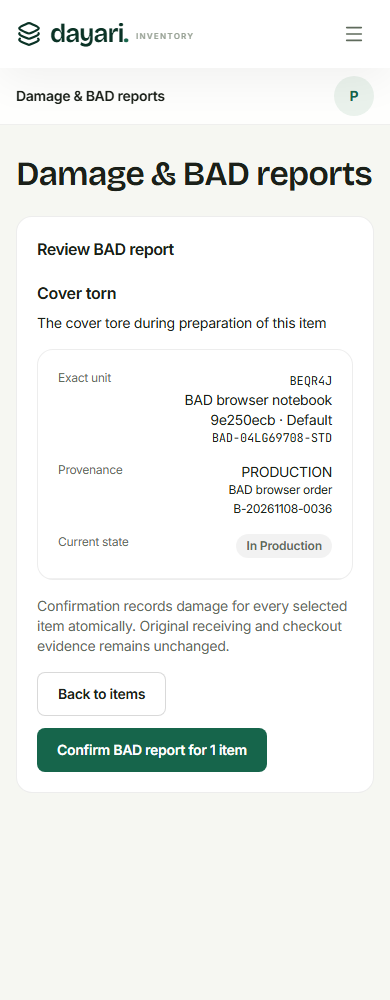
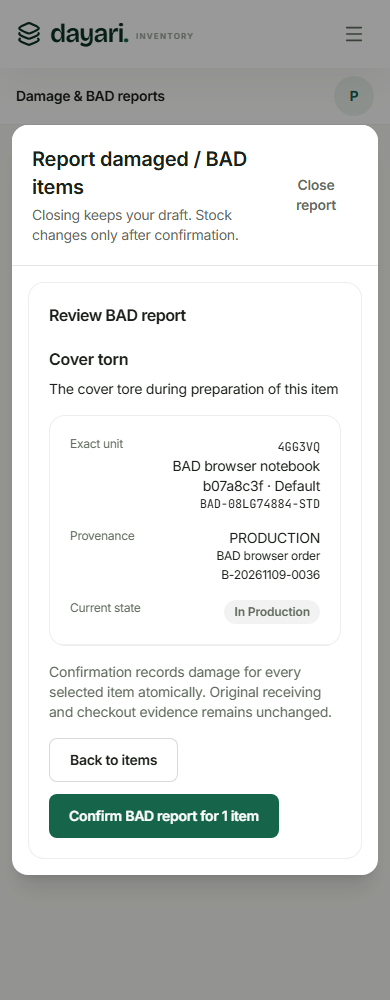
feat(ux): group products and streamline checkout and damage reporting

diff --git a/apps/web/components/production-workspace.tsx b/apps/web/components/production-workspace.tsx
@@ -1,15 +1,35 @@
 'use client';
 import {useState} from 'react';
-import type {AvailabilityPage} from '@dayari/contracts';
+import type {AvailabilityPage,AvailableProduct} from '@dayari/contracts';
 import {useApiRead} from '../lib/api';
 import {Button} from './ui/button';
-import {Badge,EmptyState,LoadingState,PageHeader,ReadError,SearchField} from './ui/workspace';
+import {EmptyState,LoadingState,PageHeader,ReadError,SearchField} from './ui/workspace';
+import {Code,DataTable,Pager} from './ui';
+
+function ProductLots({productId,q,onCode}:{productId:string;q:string;onCode:(code:string)=>void}){
+ const [page,setPage]=useState(1);
+ const stock=useApiRead<AvailabilityPage>(`availability?${new URLSearchParams({productId,q,page:String(page)})}`);
+ return <div className="border-t border-black/5 p-4">{stock.loading?<LoadingState/>:stock.error?<ReadError message={stock.error} onRetry={stock.refresh}/>:stock.data?<>
+ <DataTable label="Product variants and usable lots" rows={stock.data.lots} rowKey={lot=>lot.lotId} mobileStack emptyMessage="No usable lots match." columns={[
+ {key:'variant',label:'Variant',cell:lot=>lot.variantName},
+ {key:'sku',label:'SKU',cell:lot=><Code>{lot.fullSku}</Code>},
+ {key:'lot',label:'Lot / batch',cell:lot=><><Code>{lot.lotCode??'Not assigned'}</Code><span className="block text-xs text-grey-2">{lot.publicBatchCode}</span></>},
+ {key:'quantity',label:'Usable',cell:lot=>lot.usable},
+ {key:'lookup',label:'Details',cell:lot=>lot.lotCode?<Button variant="outline" size="small" onClick={()=>onCode(lot.lotCode!)}>Look up {lot.lotCode}</Button>:<span className="text-xs">Scan its saved QR label</span>}
+ ]}/><Pager page={page} pageCount={Math.ceil(stock.data.total/stock.data.pageSize)} total={stock.data.total} onChange={setPage}/></>:null}</div>;
+}
+function ProductRow({product,q,onCode}:{product:AvailableProduct;q:string;onCode:(code:string)=>void}){
+ const [open,setOpen]=useState(false);
+ return <section className="surface overflow-hidden"><button type="button" aria-expanded={open} onClick={()=>setOpen(!open)} className="flex w-full flex-wrap items-center justify-between gap-3 p-5 text-left hover:bg-surface-muted focus-visible:outline-2 focus-visible:outline-brand">
+ <span><span className="block font-semibold">{product.productName}</span>{product.productCode?<Code className="mt-1 block text-xs">{product.productCode}</Code>:null}</span>
+ <span className="text-sm text-grey-2">{product.variantCount} {product.variantCount===1?'variant':'variants'} · {product.lotCount} {product.lotCount===1?'lot':'lots'} <span className="ml-3 font-semibold text-brand">{open?'Hide details −':'View variants +'}</span></span>
+ </button>{open?<ProductLots productId={product.productId} q={q} onCode={onCode}/>:null}</section>;
+}
 export function ProductionWorkspace({onScan,onCode,onCheckout}:{onScan:()=>void;onCode:(code:string)=>void;onCheckout:()=>void}){
  const [q,setQ]=useState(''),[page,setPage]=useState(1);
- const stock=useApiRead<AvailabilityPage>(`availability?${new URLSearchParams({q,page:String(page)})}`);
- return <div className="page"><PageHeader eyebrow="Production · Identify with confidence" title="Production workspace" description="Find usable stock by product, variant, saved SKU, Lot Code or batch. Availability is read from accepted shop movements." actions={<div className="flex flex-wrap gap-2"><Button onClick={onCheckout}>Checkout items</Button><Button variant="secondary" onClick={onScan}>Scan a QR label</Button></div>}/>
- <section className="surface mb-5 p-4 text-sm leading-6 text-stone-600">Lookup never reserves or deducts stock. Open Production checkout to select individual units, review references and confirm once.</section>
- <div className="mb-5 grid items-end gap-3 sm:grid-cols-[minmax(0,1fr)_auto]"><div className="min-w-0 flex-1"><SearchField label="Search usable stock" value={q} onChange={value=>{setQ(value);setPage(1);}} placeholder="Product, variant, SKU, Lot Code or batch…"/></div><Button variant="outline" onClick={stock.refresh}>Refresh availability</Button></div>
- {stock.loading?<LoadingState/>:stock.error?<ReadError message={stock.error} onRetry={stock.refresh}/>:!stock.data?.lots.length?<EmptyState title="No usable stock matches">Try another product, variant or printed code. Use exact code/QR lookup for a known identity even when usable stock is unavailable.</EmptyState>:<><p className="mb-4 text-xs text-stone-500">{stock.data.total} matching usable lots · As of {new Date(stock.data.dataAsOf).toLocaleTimeString('en-GB',{timeZone:'Africa/Lagos'})} Lagos</p><div className="grid gap-4 md:grid-cols-2 xl:grid-cols-3">{stock.data.lots.map(lot=><section key={lot.lotId} className="surface min-w-0 p-5"><div className="flex flex-wrap justify-between gap-2"><span className="font-mono text-xs text-emerald-800">{lot.productCode??'Product code not assigned'}</span><Badge tone="usable">{lot.usable} usable</Badge></div><h2 className="mt-3 font-semibold">{lot.productName}</h2><p className="mt-1 text-sm text-stone-500">{lot.variantName}</p><p className="mt-3 break-all font-mono text-xs">{lot.fullSku}</p><p className="mt-2 text-xs text-stone-500">Batch {lot.publicBatchCode}</p><p className="mt-2 font-mono text-xs">Lot {lot.lotCode??'Code not assigned'}</p>{lot.lotCode?<Button className="mt-4" size="small" variant="outline" onClick={()=>onCode(lot.lotCode!)}>Look up {lot.lotCode}</Button>:<p className="mt-4 text-xs text-stone-500">Use its existing QR label for exact identification.</p>}</section>)}</div><div className="mt-5 flex flex-wrap items-center gap-3"><Button variant="outline" disabled={page===1} onClick={()=>setPage(page-1)}>Previous</Button><span className="text-sm">Page {page}</span><Button variant="outline" disabled={page*20>=stock.data.total} onClick={()=>setPage(page+1)}>Next</Button></div></>}
+ const stock=useApiRead<AvailabilityPage>(`availability?${new URLSearchParams({view:'products',q,page:String(page)})}`);
+ return <div className="page"><PageHeader title="Production workspace" description="" actions={<div className="flex flex-wrap gap-2"><Button onClick={onCheckout}>Checkout items</Button><Button variant="secondary" onClick={onScan}>Scan a QR label</Button></div>}/>
+ <div className="mb-5 grid items-end gap-3 sm:grid-cols-[minmax(0,1fr)_auto]"><SearchField label="Search usable stock" value={q} onChange={value=>{setQ(value);setPage(1);}} placeholder="Product, variant, SKU, Lot Code or batch…"/><Button variant="outline" onClick={stock.refresh}>Refresh availability</Button></div>
+ {stock.loading?<LoadingState/>:stock.error?<ReadError message={stock.error} onRetry={stock.refresh}/>:!stock.data?.products?.length?<EmptyState title="No usable stock matches">Try another product, variant or printed code.</EmptyState>:<><p className="mb-4 text-xs text-stone-500">{stock.data.total} matching products · As of {new Date(stock.data.dataAsOf).toLocaleTimeString('en-GB',{timeZone:'Africa/Lagos'})} Lagos</p><div className="space-y-3">{stock.data.products.map(product=><ProductRow key={`${q}:${page}:${product.productId}`} product={product} q={q} onCode={onCode}/>)}</div><Pager page={page} pageCount={Math.ceil(stock.data.total/stock.data.pageSize)} total={stock.data.total} onChange={setPage}/></>}
  </div>;
 }

diff --git a/apps/web/components/damage-workspace.tsx b/apps/web/components/damage-workspace.tsx
@@ -1,4 +1,5 @@
 'use client';
+import { ReportModal } from './ui/report-modal';
 import { useEffect, useRef, useState } from 'react';
 import { damageReportSchema, damageReviewSchema, type DamageCandidate, type DamageView, type UnitIdentityLookup } from '@dayari/contracts';
 import { api, useApiRead } from '../lib/api';
@@ -35,9 +36,14 @@ function DamageDetail({ id, review, onClose, onTrack }: { id: string; review: bo
   const result = useApiRead<DamageView>(`${review ? 'damage-reviews' : 'damage-reports'}/${id}`);
   return <DetailsDrawer title={review ? 'Damage review' : 'BAD report'} eyebrow="Damage evidence" closeLabel="Close damage details" onClose={onClose}>{result.loading ? <DetailSkeleton rows={4} /> : result.error ? <ErrorNotice message={result.error} onRetry={result.refresh} /> : result.data ? <Recorded value={result.data} onTrack={onTrack} /> : null}</DetailsDrawer>;
 }
+function ReportContainer({review,children,...props}: {review:boolean;children:React.ReactNode;open:boolean;busy:boolean;onClose:()=>void}) {
+  return review ? <>{children}</> : <ReportModal {...props}>{children}</ReportModal>;
+}
 function Workflow({ actorId, config, review }: { actorId: string; config: Config; review: boolean }) {
   const { saved, ready, busy, update, send, route } = useDamageDraft(actorId, config.originId, review, config.ownIssuedOnly);
   const presentation = useQrPresentation();
+  const [reportOpen,setReportOpen] = useState(false);
+  useEffect(() => { if(ready && !review && (saved.pending || saved.body.unitIds.length || saved.body.cause || saved.body.description)) setReportOpen(true); }, [ready,review]);
   const [input, setInput] = useState(''), [error, setError] = useState(''), [adding, setAdding] = useState(false), [camera, setCamera] = useState(false), [announcement, setAnnouncement] = useState('');
   const [confirming, setConfirming] = useState(false), [page, setPage] = useState(1), [historyPage, setHistoryPage] = useState(1), [tracking, setTracking] = useState(''), [detail, setDetail] = useState('');
   const [units, setUnits] = useState<DamageCandidate[]>([]), [previewError, setPreviewError] = useState(''), [previewBusy, setPreviewBusy] = useState(false), [revision, setRevision] = useState(0);
@@ -79,7 +85,8 @@ function Workflow({ actorId, config, review }: { actorId: string; config: Config
   const canConfirm = valid.success && !previewBusy && !previewError && units.length === saved.body.unitIds.length && units.every(unit => unit.eligible);
   return <div className="space-y-5">
     {showingSaved ? accepted.loading ? <DetailSkeleton rows={4} /> : accepted.error ? <ErrorNotice message={accepted.error} onRetry={accepted.refresh} /> : accepted.data ? <><Recorded value={accepted.data} onTrack={setTracking} />{canWrite ? <Button variant="secondary" onClick={() => change({ ...saved.body, unitIds: [] })}>Start another {review ? 'review' : 'BAD report'}</Button> : null}</> : null : null}
-    {canWrite && !showingSaved && ready ? <Panel title={confirming ? review ? 'Review disposition' : 'Review BAD report' : review ? 'Review damaged items' : 'Report an item as BAD'}><div className="space-y-4">
+    {canWrite && !showingSaved && ready && !review ? <Button onClick={()=>setReportOpen(true)}>Report damaged / BAD items</Button> : null}
+    {canWrite && !showingSaved && ready ? <ReportContainer review={review} open={reportOpen} busy={busy || adding} onClose={()=>{setCamera(false);setReportOpen(false);}}><Panel title={confirming ? review ? 'Review disposition' : 'Review BAD report' : review ? 'Review damaged items' : 'Report an item as BAD'}><div className="space-y-4">
       {error ? <ErrorNotice message={error} /> : null}{presentation.state === 'error' ? <ErrorNotice message={`Identification is available, but QR presentation evidence was not confirmed: ${presentation.error}`} onRetry={presentation.retry} /> : null}{saved.pending && !busy ? <WarningNotice>The response is unresolved. Retry this saved request with the same key.<Button disabled={busy} className="mt-2" onClick={() => void confirm()}>Retry saved damage command</Button></WarningNotice> : null}
       {!confirming ? <>
         <form ref={form} onSubmit={event => { event.preventDefault(); void add(); }} className="flex flex-wrap items-end gap-3"><div className="min-w-0 flex-1"><Field label="Scan individual QR or enter Unit Code">{id => <Input id={id} value={input} disabled={disabled} maxLength={200} placeholder="DYI:2 or six characters" onChange={event => setInput(event.target.value)} />}</Field></div><Button type="submit" disabled={disabled || !input.trim()}>{adding ? 'Checking…' : 'Add item'}</Button><Button variant="secondary" disabled={disabled} onClick={() => setCamera(value => !value)}>Use camera</Button></form>
@@ -96,7 +103,7 @@ function Workflow({ actorId, config, review }: { actorId: string; config: Config
       ]} /><Pager page={page} pageCount={Math.ceil(units.length / 12)} total={units.length} onChange={setPage} /></> : <EmptyState title="No items selected">Scan or enter an exact Unit Code.</EmptyState>}
       {review ? <p className="text-sm text-grey-2">Held and Reworked remain damaged. Discarded and Returned to vendor remove the selected items. <a className="inline-flex min-h-11 items-center font-semibold text-brand underline" href="#requests">Record a pending recovery request</a>; execution still requires future cloud authorization.</p> : <p className="text-sm text-grey-2">Confirmation records damage for every selected item atomically. Original receiving and checkout evidence remains unchanged.</p>}
       <div className="flex flex-wrap justify-between gap-3"><Button variant="secondary" disabled={disabled} onClick={() => { if (confirming) setConfirming(false); else if (window.confirm('Discard this damage draft? Saved inventory history will remain unchanged.')) change({ unitIds: [], cause: '', description: '', outcome: 'HELD', note: '' }); }}>{confirming ? 'Back to items' : 'Discard draft'}</Button><Button disabled={disabled || !canConfirm} onClick={() => { if (confirming) void confirm(); else { setConfirming(true); setPage(1); } }}>{busy ? 'Recording…' : confirming ? `Confirm ${review ? 'review' : 'BAD report'} for ${units.length} ${units.length === 1 ? 'item' : 'items'}` : 'Review selected items'}</Button></div>
-    </div></Panel> : null}
+    </div></Panel></ReportContainer> : null}
     {review && !config.canReview ? <p className="text-sm text-grey-2">Read-only disposition history. Only Inventory Managers confirm damage outcomes.</p> : null}
     {!confirming ? <Panel title={review ? 'Disposition history' : config.ownIssuedOnly ? 'Your BAD reports' : 'BAD report history'}><div className="space-y-4">{history.loading ? <DetailSkeleton rows={4} /> : history.error ? <ErrorNotice message={history.error} onRetry={history.refresh} /> : history.data ? <><DataTable label="Damage history" rows={history.data.rows} rowKey={row => row.id} mobileStack emptyMessage="No recorded damage commands." columns={[
       { key: 'record', label: 'Recorded', cell: row => <><span>{formatDateTime(row.recordedAt)}</span><span className="block text-xs">{row.actorName}</span></> },

diff --git a/tests/e2e/labels.spec.ts b/tests/e2e/labels.spec.ts
@@ -36,11 +36,11 @@ test('A4 printing without outcome reports, explicit reprint and Production read-
  const popup=page.waitForEvent('popup');await labels.getByRole('button',{name:'Print 5 sheets',exact:true}).click();const preview=await popup;await expect(labels.getByText('Report this print attempt',{exact:true})).toHaveCount(0);await expect(labels.getByRole('status').filter({hasText:'Print dialog requested'})).toBeVisible();await expect(labels.getByRole('button',{name:'Print 5 sheets',exact:true})).toBeEnabled();await preview.close();
  await expect(labels.getByLabel('Print outcome note',{exact:true})).toHaveCount(0);await expect(labels.getByRole('button',{name:'Report printed',exact:true})).toHaveCount(0);
  const retryRequest=page.waitForResponse(r=>r.url().endsWith(`/api/label-print-jobs/${job.id}/events`)&&r.request().method()==='POST');const retryPopup=page.waitForEvent('popup');await labels.getByRole('button',{name:'Print 5 sheets',exact:true}).click();const retryPrint=await retryPopup;expect((await retryRequest).status()).toBe(201);await expect(labels.getByRole('button',{name:'Print 5 sheets',exact:true})).toBeEnabled();await expect(labels.getByRole('status').filter({hasText:'Print dialog requested'})).toBeVisible();await retryPrint.close();await expect(labels.getByRole('alert')).toHaveCount(0);
- await labels.getByText('Explicit reprint',{exact:true}).click();const first=job.lines.find((line:any)=>line.purpose==='USABLE');await labels.getByRole('checkbox',{name:`${first.content.fullCode} · USABLE`,exact:true}).check();await labels.getByRole('spinbutton',{name:`${first.content.fullCode} USABLE reprint copies`,exact:true}).fill('501');await labels.getByLabel('Reprint reason',{exact:true}).fill('Printer jam spoiled the intended labels');await expect(labels.getByRole('button',{name:'Create explicit reprint',exact:true})).toBeEnabled();let discardWarning=false;page.once('dialog',async dialog=>{discardWarning=true;await dialog.dismiss();});await page.getByRole('button',{name:'QR lookup',exact:true}).click();expect(discardWarning).toBe(true);await expect(page).toHaveURL(/#receipts\//);await expect(labels.getByRole('spinbutton',{name:`${first.content.fullCode} USABLE reprint copies`,exact:true})).toHaveValue('501');await expect(labels.getByLabel('Reprint reason',{exact:true})).toHaveValue('Printer jam spoiled the intended labels');await labels.getByRole('button',{name:'Create explicit reprint',exact:true}).click();await expect(labels.getByRole('heading',{name:'Reprint manifest',exact:true})).toBeVisible();
+ await labels.getByText('Explicit reprint',{exact:true}).click();const first=job.lines.find((line:any)=>line.purpose==='USABLE');await labels.getByRole('checkbox',{name:`${first.content.fullCode} · USABLE`,exact:true}).check();await labels.getByRole('spinbutton',{name:`${first.content.fullCode} USABLE reprint copies`,exact:true}).fill('501');await labels.getByLabel('Reprint reason',{exact:true}).fill('Printer jam spoiled the intended labels');await expect(labels.getByRole('button',{name:'Create explicit reprint',exact:true})).toBeEnabled();let discardWarning=false;page.once('dialog',async dialog=>{discardWarning=true;await dialog.dismiss();});await page.getByRole('button',{name:'Production checkout',exact:true}).click();expect(discardWarning).toBe(true);await expect(page).toHaveURL(/#receipts\//);await expect(labels.getByRole('spinbutton',{name:`${first.content.fullCode} USABLE reprint copies`,exact:true})).toHaveValue('501');await expect(labels.getByLabel('Reprint reason',{exact:true})).toHaveValue('Printer jam spoiled the intended labels');await labels.getByRole('button',{name:'Create explicit reprint',exact:true}).click();await expect(labels.getByRole('heading',{name:'Reprint manifest',exact:true})).toBeVisible();
  await labels.getByLabel('PDF part',{exact:true}).fill('2');await labels.getByRole('button',{name:'Prepare PDF',exact:true}).click();await expect(labels.getByRole('status')).toContainText('1 labels on 1 A4 sheet(s)');
  const history=await(await page.request.get(`/api/label-print-jobs/${job.id}`)).json();const handoffs=history.events.filter((e:any)=>e.kind==='HANDOFF_REQUESTED');expect(handoffs).toHaveLength(2);expect(new Set(handoffs.map((e:any)=>e.attemptId)).size).toBe(2);expect(history.events.some((e:any)=>['OPERATOR_REPORTED_PRINTED','OUTCOME_UNKNOWN','FAILED'].includes(e.kind))).toBe(false);
  const stock=await(await page.request.get(`/api/stock?batchId=${receipt.batch.id}`)).json();expect(stock.lots.find((x:any)=>x.skuId===notebook.skus[0].id)).toMatchObject({usable:'30',damaged:'2'});
- await page.getByRole('button',{name:'Sign out',exact:true}).click();await login('e2e-production@dayari.test');await expect(page.getByRole('button',{name:'Labels & printing',exact:true})).toHaveCount(0);await page.getByRole('button',{name:'QR lookup',exact:true}).click();await page.getByLabel('Scan or enter QR payload',{exact:true}).fill(first.payload);await page.getByRole('button',{name:'Resolve QR',exact:true}).click();const resolved=page.getByRole('region',{name:'Resolved stock lot',exact:true});await expect(resolved.getByText('Usable availability: 30',{exact:true})).toBeVisible();await expect(resolved.getByText('Damaged lot quantity:',{exact:false})).toHaveCount(0);
+ await page.getByRole('button',{name:'Sign out',exact:true}).click();await login('e2e-production@dayari.test');await expect(page.getByRole('button',{name:'Labels & printing',exact:true})).toHaveCount(0);await page.getByRole('button',{name:'Production checkout',exact:true}).click();await page.getByRole('button',{name:'QR & code lookup',exact:true}).click();await page.getByLabel('Scan or enter QR payload',{exact:true}).fill(first.payload);await page.getByRole('button',{name:'Resolve QR',exact:true}).click();const resolved=page.getByRole('region',{name:'Resolved stock lot',exact:true});await expect(resolved.getByText('Usable availability: 30',{exact:true})).toBeVisible();await expect(resolved.getByText('Damaged lot quantity:',{exact:false})).toHaveCount(0);
  expect((await page.request.get('/api/label-print-jobs')).status()).toBe(403);expect((await page.request.get('/api/receipts')).status()).toBe(403);
  await page.getByText('Exact manual lookup',{exact:true}).click();await choose(page,'Stock source',supplier.source.id);await page.getByLabel('Exact saved SKU',{exact:true}).fill(first.content.fullCode);await page.getByLabel('Exact batch code',{exact:true}).fill(receipt.batch.publicCode);await page.getByRole('button',{name:'Look up exact lot',exact:true}).click();await expect(resolved.getByText('Usable availability: 30',{exact:true})).toBeVisible();
  await page.getByRole('button',{name:'Use camera',exact:true}).click();await expect(page.getByRole('status')).toContainText('Camera permission denied');

diff --git a/tests/e2e/production.spec.ts b/tests/e2e/production.spec.ts
@@ -12,9 +12,8 @@ test('Production discovers usable lots and opens contextual exact identity looku
  await expect(page.getByRole('heading',{name:'Production workspace',exact:true})).toBeVisible();
  const response=await page.request.get('/api/availability');expect(response.status()).toBe(200);const stock=await response.json();
  await expect(page.getByRole('button',{name:'Checkout items',exact:true})).toBeVisible();
- await expect(page.getByText('Lookup never reserves or deducts stock.',{exact:false})).toBeVisible();
- expect(stock.total).toBeGreaterThan(0);const lot=accepted.lines[0];await page.getByRole('searchbox',{name:'Search usable stock'}).fill(lot.lotCode);await expect(page.getByText(product.skus[0].fullCode,{exact:true})).toBeVisible();await page.getByRole('button',{name:`Look up ${lot.lotCode}`,exact:true}).click();await expect(page.getByLabel('Product or Lot Code')).toHaveValue(lot.lotCode);await page.getByRole('button',{name:'Find code',exact:true}).click();await expect(page.getByRole('status',{name:'Code lookup result'})).toContainText(product.skus[0].fullCode);await page.getByRole('button',{name:'Usable stock',exact:true}).click();
- await page.getByRole('searchbox',{name:'Search usable stock'}).fill('');await expect(page.getByRole('status',{name:'Loading workspace'})).toHaveCount(0);await expect(page.getByText('matching usable lots',{exact:false})).toBeVisible();
+ expect(stock.total).toBeGreaterThan(0);const lot=accepted.lines[0];await page.getByRole('searchbox',{name:'Search usable stock'}).fill(lot.lotCode);await page.getByRole('button',{name:/Production browser notebook/}).click();await expect(page.getByText(product.skus[0].fullCode,{exact:true})).toBeVisible();await page.getByRole('button',{name:`Look up ${lot.lotCode}`,exact:true}).click();await expect(page.getByLabel('Product or Lot Code')).toHaveValue(lot.lotCode);await page.getByRole('button',{name:'Find code',exact:true}).click();await expect(page.getByRole('status',{name:'Code lookup result'})).toContainText(product.skus[0].fullCode);await page.getByRole('button',{name:'Usable stock',exact:true}).click();
+ await page.getByRole('searchbox',{name:'Search usable stock'}).fill('');await expect(page.getByRole('status',{name:'Loading workspace'})).toHaveCount(0);await expect(page.getByText('matching products',{exact:false})).toBeVisible();
  for(const width of [320,390,768,1024,1440]){await page.setViewportSize({width,height:900});expect(await page.evaluate(()=>document.documentElement.scrollWidth<=innerWidth)).toBe(true);await page.screenshot({path:`test-results/production-${width}.png`});}
  await expect(page.getByText(/damaged/i)).toHaveCount(0);
  expect((await page.request.get('/api/label-print-jobs')).status()).toBe(403);

diff --git a/tests/e2e/compact-navigation.spec.ts b/tests/e2e/compact-navigation.spec.ts
@@ -8,7 +8,7 @@ test('compact navigation preserves every role destination and supports collapse 
   expect(await page.getByRole('button',{name:'Sign out',exact:true}).evaluate(el=>el.getBoundingClientRect().bottom<=innerHeight)).toBe(true);
   const labels=await nav.getByRole('button').allTextContents();expect(labels.some(x=>x.includes('Users & access'))).toBe(role==='admin');expect(labels.some(x=>x.includes('Receiving'))).toBe(false);expect(labels.some(x=>x.includes('Suppliers'))).toBe(false);
   if(role!=='production')await expect(page.getByRole('button',{name:'Receive a delivery',exact:true})).toBeVisible();
-  await page.getByRole('button',{name:'Collapse sidebar',exact:true}).click();await expect(page.getByRole('button',{name:'Expand sidebar',exact:true})).toBeVisible();await nav.getByRole('button',{name:'QR lookup',exact:true}).click();await expect(page.getByRole('heading',{name:'QR lookup',exact:true})).toBeVisible();await page.getByRole('button',{name:'Expand sidebar',exact:true}).click();
+  await page.getByRole('button',{name:'Collapse sidebar',exact:true}).click();await expect(page.getByRole('button',{name:'Expand sidebar',exact:true})).toBeVisible();await nav.getByRole('button',{name:'Production checkout',exact:true}).click();await page.getByRole('button',{name:'QR & code lookup',exact:true}).click();await expect(page.getByRole('heading',{name:'QR lookup',exact:true})).toBeVisible();await page.getByRole('button',{name:'Expand sidebar',exact:true}).click();
   for(const width of [320,390,768,1024,1440]){await page.setViewportSize({width,height:900});if(width<1024){await page.getByRole('button',{name:'Open navigation',exact:true}).click();await expect(nav.getByRole('button',{name:'Help & guide',exact:true})).toBeVisible();await page.getByRole('button',{name:'Close navigation',exact:true}).click();}expect(await page.evaluate(()=>document.documentElement.scrollWidth<=innerWidth)).toBe(true);}
   await page.screenshot({path:`test-results/slices/navigation-${role}-1440.png`});
   await page.setViewportSize({width:1024,height:500});await nav.getByRole('button',{name:'Help & guide',exact:true}).click();await expect(page.getByRole('heading',{name:'Help & operating guide'})).toBeVisible();await page.getByRole('button',{name:'Sign out',exact:true}).click();await expect(page.getByRole('heading',{name:'Sign in to your shop'})).toBeVisible();

diff --git a/apps/web/components/shell/destinations.ts b/apps/web/components/shell/destinations.ts
@@ -1,5 +1,11 @@
 import {
   Analytics01Icon,
+  ClipboardCheckIcon,
+  CheckListIcon,
+  PackageDelivered01Icon,
+  Alert02Icon,
+  ArrowTurnBackwardIcon,
+  ClipboardPenIcon,
   Book02Icon,
   BoxesIcon,
   Building03Icon,
@@ -19,12 +25,12 @@ import type { IconSpec } from '../ui/icon';
 
 export const destinations = {
   dashboard: { label: 'Overview', icon: DashboardSquare01Icon as IconSpec },
-  counts: {label: 'Physical counts', icon: BoxesIcon as IconSpec},
-  completion: { label: 'Production completion', icon: BoxesIcon as IconSpec },
-  requests: { label: 'Recovery & corrections', icon: Invoice01Icon as IconSpec },
-  damage: { label: 'Damage & BAD reports', icon: Invoice01Icon as IconSpec },
-  reconciliation: { label: 'Reason reconciliation', icon: Invoice01Icon as IconSpec },
-  checkout: { label: 'Production checkout', icon: BoxesIcon as IconSpec },
+  counts: {label: 'Physical counts', icon: CheckListIcon as IconSpec},
+  completion: { label: 'Production completion', icon: ClipboardCheckIcon as IconSpec },
+  requests: { label: 'Recovery & corrections', icon: ArrowTurnBackwardIcon as IconSpec },
+  damage: { label: 'Damage & BAD reports', icon: Alert02Icon as IconSpec },
+  reconciliation: { label: 'Reason reconciliation', icon: ClipboardPenIcon as IconSpec },
+  checkout: { label: 'Production checkout', icon: PackageDelivered01Icon as IconSpec },
   availability: { label: 'Usable stock', icon: PackageSearchIcon as IconSpec },
   inventory: { label: 'Inventory', icon: BoxesIcon as IconSpec },
   receiving: { label: 'Receiving', icon: TruckDeliveryIcon as IconSpec },
@@ -74,7 +80,7 @@ export function workspaceAllowed(role: Role, workspace: Workspace) {
 export const navGroups: { name: string; keys: Workspace[] }[] = [
   { name: 'Stock & operations', keys: ['dashboard', 'availability', 'inventory', 'checkout', 'completion', 'counts', 'reconciliation', 'damage', 'requests', 'receipts'] },
   { name: 'Catalogue', keys: ['catalogue'] },
-  { name: 'Tools & reports', keys: ['labels', 'qr', 'reports'] },
+  { name: 'Tools & reports', keys: ['labels', 'reports'] },
   { name: 'Workspace', keys: ['users', 'settings', 'help'] },
 ];
 

diff --git a/apps/api/src/availability.service.ts b/apps/api/src/availability.service.ts
@@ -1,6 +1,6 @@
 import {BadRequestException} from '@nestjs/common';
 import {Prisma,type PrismaClient,type User} from '@prisma/client';
-import {availabilityQuery,type AvailableLot,type AvailabilityPage} from '@dayari/contracts';
+import {availabilityQuery,type AvailableLot,type AvailableProduct,type AvailabilityPage} from '@dayari/contracts';
 import {requireCapability} from './permissions.js';
 export class AvailabilityService{
  constructor(readonly db:PrismaClient,readonly originId:string){}
@@ -20,6 +20,11 @@ export class AvailabilityService{
    ${q.lotId?Prisma.sql`AND l.id=${q.lotId}::uuid`:Prisma.empty}
    ${q.q?Prisma.sql`AND position(lower(${q.q}) in lower(concat_ws(' ',p.name,v.name,s."fullCode",b."publicCode",pi.code,li.code)))>0`:Prisma.empty}`;
   return this.db.$transaction(async tx=>{
+   if(q.view==='products'){
+    const counts=await tx.$queryRaw<{total:bigint}[]>(Prisma.sql`SELECT count(DISTINCT p.id) AS total ${from}`);
+    const products=await tx.$queryRaw<AvailableProduct[]>(Prisma.sql`SELECT p.id AS "productId",pi.code AS "productCode",p.name AS "productName",count(DISTINCT v.id)::int AS "variantCount",count(*)::int AS "lotCount" ${from} GROUP BY p.id,pi.code,p.name ORDER BY p.name,p.id LIMIT 20 OFFSET ${(q.page-1)*20}`);
+    return {lots:[],products,total:Number(counts[0]!.total),page:q.page,pageSize:20,originId:this.originId,dataAsOf:new Date().toISOString()};
+   }
    const counts=await tx.$queryRaw<{total:bigint}[]>(Prisma.sql`SELECT count(*) AS total ${from}`);
    const lots=await tx.$queryRaw<AvailableLot[]>(Prisma.sql`SELECT l.id AS "lotId",li.code AS "lotCode",p.id AS "productId",pi.code AS "productCode",p.name AS "productName",v.id AS "variantId",v.name AS "variantName",s.id AS "skuId",s."fullCode" AS "fullSku",b.id AS "batchId",b."publicCode" AS "publicBatchCode",u.quantity::text AS usable ${from} ORDER BY p.name,v.name,s."fullCode",b."acceptedAt" DESC,l.id LIMIT 20 OFFSET ${(q.page-1)*20}`);
    return {lots,total:Number(counts[0]!.total),page:q.page,pageSize:20,originId:this.originId,dataAsOf:new Date().toISOString()};

diff --git a/apps/web/components/workspace-router.tsx b/apps/web/components/workspace-router.tsx
@@ -6,14 +6,13 @@ import { CompletionWorkspace } from './completion-workspace';
 import { AuthorizationRequestsWorkspace } from './authorization-requests-workspace';
 import { DamageWorkspace } from './damage-workspace';
 import { ReconciliationWorkspace } from './reconciliation-workspace';
-import { CheckoutWorkspace } from './checkout-workspace';
+import { CheckoutLookupWorkspace } from './checkout-lookup-workspace';
 import { CatalogueWorkspace } from './catalogue/catalogue-workspace';
 import { Dashboard } from './dashboard';
 import { HelpWorkspace } from './help-workspace';
 import { InventoryWorkspace } from './inventory-workspace';
 import { PrintingWorkspace } from './labels/printing-workspace';
 import { ProductionWorkspace } from './production-workspace';
-import { QrWorkspace } from './labels/qr-workspace';
 import { ReceiptsWorkspace } from './receiving/receipts-workspace';
 import { ReceivingWorkspace } from './receiving/receiving-workspace';
 import { ReportsWorkspace } from './operational-reports-workspace';
@@ -139,7 +138,7 @@ export function WorkspaceRouter({
       return <ReconciliationWorkspace actorId={user.id} />;
 
     case 'checkout':
-      return <CheckoutWorkspace actorId={user.id} />;
+      return <CheckoutLookupWorkspace key="checkout" actorId={user.id} />;
 
     case 'help':
       return <HelpWorkspace role={user.role} navigate={navigate} />;
@@ -170,7 +169,7 @@ export function WorkspaceRouter({
       return <SettingsWorkspace user={user} onPasswordChanged={onPasswordChanged} />;
 
     case 'qr':
-      return <QrWorkspace initialCode={detail.qrCode} />;
+      return <CheckoutLookupWorkspace key={`lookup:${detail.qrCode}`} actorId={user.id} initialCode={detail.qrCode} initialMode="lookup" />;
 
     case 'labels':
       return <PrintingWorkspace actorId={user.id} initialLegacyJobId={detail.labelJob} initialReceiptId={detail.labelReceipt} />;

diff --git a/tests/e2e/damage.spec.ts b/tests/e2e/damage.spec.ts
@@ -26,10 +26,12 @@ test('Production reports its own exact issued item and Manager reviews damaged s
   const checkout = await post('checkouts', { reason: { code: 'PRODUCTION_USE' }, orderReference: 'BAD browser order', lines: units.slice(0, 2).map((unit: any) => ({ unitId: unit.id })) });
   await page.getByRole('button', { name: 'Damage & BAD reports', exact: true }).click();
   await expect(page.getByRole('heading', { name: 'Damage & BAD reports', exact: true })).toBeVisible();
+  await page.getByRole('button', {name:'Report damaged / BAD items',exact:true}).click();
   await expect(page.getByRole('button', { name: 'Manager dispositions', exact: true })).toHaveCount(0);
   const add = async (code: string) => { await page.getByLabel('Scan individual QR or enter Unit Code', { exact: true }).fill(code); await page.getByRole('button', { name: 'Add item', exact: true }).click(); await expect(page.getByRole('button', { name: `Remove ${code}`, exact: true })).toBeVisible(); };
   await add(units[0].unitCode);
   await page.getByLabel('Damage cause', { exact: true }).fill('Cover torn'); await page.getByLabel('What happened', { exact: true }).fill('The cover tore during preparation of this item');
+  await page.getByRole('button',{name:'Close report',exact:true}).click();await expect(page.getByRole('dialog')).toHaveCount(0);await page.getByRole('button',{name:'Report damaged / BAD items',exact:true}).click();await expect(page.getByLabel('Damage cause',{exact:true})).toHaveValue('Cover torn');
   await page.getByRole('button', { name: 'Review selected items', exact: true }).click(); await page.getByRole('button', { name: 'Back to items', exact: true }).click();
   await expect(page.getByLabel('Damage cause', { exact: true })).toHaveValue('Cover torn');
   page.once('dialog', dialog => dialog.dismiss()); await page.getByRole('button', { name: 'Discard draft', exact: true }).click();

diff --git a/tests/integration/availability.test.ts b/tests/integration/availability.test.ts
@@ -33,3 +33,14 @@ it('preserves batch provenance, literal filters and shop isolation without inven
  const foreignToken=await shopToken(db,other,foreign,'PRODUCTION');expect((await request(other.getHttpServer()).get('/v1/availability?lotId='+first.lots[0].lotId).set('Authorization','Bearer '+foreignToken).expect(200)).body.total).toBe(0);
  expect(await db.stockMovement.count({where:{batchId:receipt.batch.id}})).toBe(before);
 });
+it('groups the shared parent once across variants and batches with product-level pagination',async()=>{
+ const sourceId=receipt.batch.sourceId ?? (await db.stockLot.findFirstOrThrow({where:{batchId:receipt.batch.id}})).sourceId;
+ await post('receipts',{sourceId,deliveredOn:'2020-01-02',lines:[{skuId:product.skus[0].id,usableQuantity:2,damagedQuantity:0},{skuId:product.skus[1].id,usableQuantity:5,damagedQuantity:0}]}).expect(201);
+ const grouped=(await get('?view=products').expect(200)).body;
+ expect(grouped.total).toBe(1);expect(grouped.lots).toEqual([]);expect(grouped.products).toHaveLength(1);
+ expect(grouped.products[0]).toMatchObject({productId:product.product.id,variantCount:2,lotCount:3});
+ expect(JSON.stringify(grouped)).not.toMatch(/supplier|invoice|damaged|audit|password/i);
+ expect((await get('?view=products&page=2').expect(200)).body.products).toEqual([]);
+ const detail=(await get('?productId='+product.product.id).expect(200)).body;expect(detail.total).toBe(3);expect(detail.lots.map((lot:any)=>lot.usable).sort()).toEqual(['2','5','8']);
+ await get('?view=invalid').expect(400);
+});

diff --git a/apps/web/components/ui/report-modal.tsx b/apps/web/components/ui/report-modal.tsx
@@ -1,0 +1,7 @@
+'use client';
+import * as Dialog from '@radix-ui/react-dialog';
+import type {ReactNode} from 'react';
+import {Button} from './button';
+export function ReportModal({open,onClose,busy,children}:{open:boolean;onClose:()=>void;busy:boolean;children:ReactNode}){
+ return <Dialog.Root open={open} onOpenChange={value=>{if(!value&&!busy)onClose();}}><Dialog.Portal><Dialog.Overlay className="fixed inset-0 z-50 bg-black/40"/><Dialog.Content className="fixed top-1/2 left-1/2 z-50 max-h-[92dvh] w-[min(960px,calc(100vw-24px))] -translate-x-1/2 -translate-y-1/2 overflow-y-auto rounded-2xl bg-white shadow-xl"><header className="sticky top-0 z-10 flex items-center justify-between gap-4 border-b border-black/10 bg-white p-5"><div><Dialog.Title className="text-xl font-semibold">Report damaged / BAD items</Dialog.Title><Dialog.Description className="mt-1 text-sm text-grey-2">Closing keeps your draft. Stock changes only after confirmation.</Dialog.Description></div><Button variant="ghost" disabled={busy} onClick={onClose}>Close report</Button></header><div className="p-4 sm:p-6">{children}</div></Dialog.Content></Dialog.Portal></Dialog.Root>;
+}

diff --git a/packages/contracts/src/availability.ts b/packages/contracts/src/availability.ts
@@ -1,4 +1,6 @@
 import {z} from 'zod';
-export const availabilityQuery=z.object({q:z.string().trim().max(160).default(''),page:z.coerce.number().int().min(1).max(100000).default(1),productId:z.uuid().optional(),lotId:z.uuid().optional()}).strict();
+export const availabilityQuery=z.object({q:z.string().trim().max(160).default(''),page:z.coerce.number().int().min(1).max(100000).default(1),view:z.enum(['lots','products']).default('lots'),productId:z.uuid().optional(),lotId:z.uuid().optional()}).strict();
 export type AvailableLot={lotId:string;lotCode:string|null;productId:string;productCode:string|null;productName:string;variantId:string;variantName:string;skuId:string;fullSku:string;batchId:string;publicBatchCode:string;usable:string};
-export type AvailabilityPage={lots:AvailableLot[];total:number;page:number;pageSize:number;originId:string;dataAsOf:string};
+export type AvailabilityPage={lots:AvailableLot[];products?:AvailableProduct[];total:number;page:number;pageSize:number;originId:string;dataAsOf:string};
+
+export type AvailableProduct={productId:string;productCode:string|null;productName:string;variantCount:number;lotCount:number};
